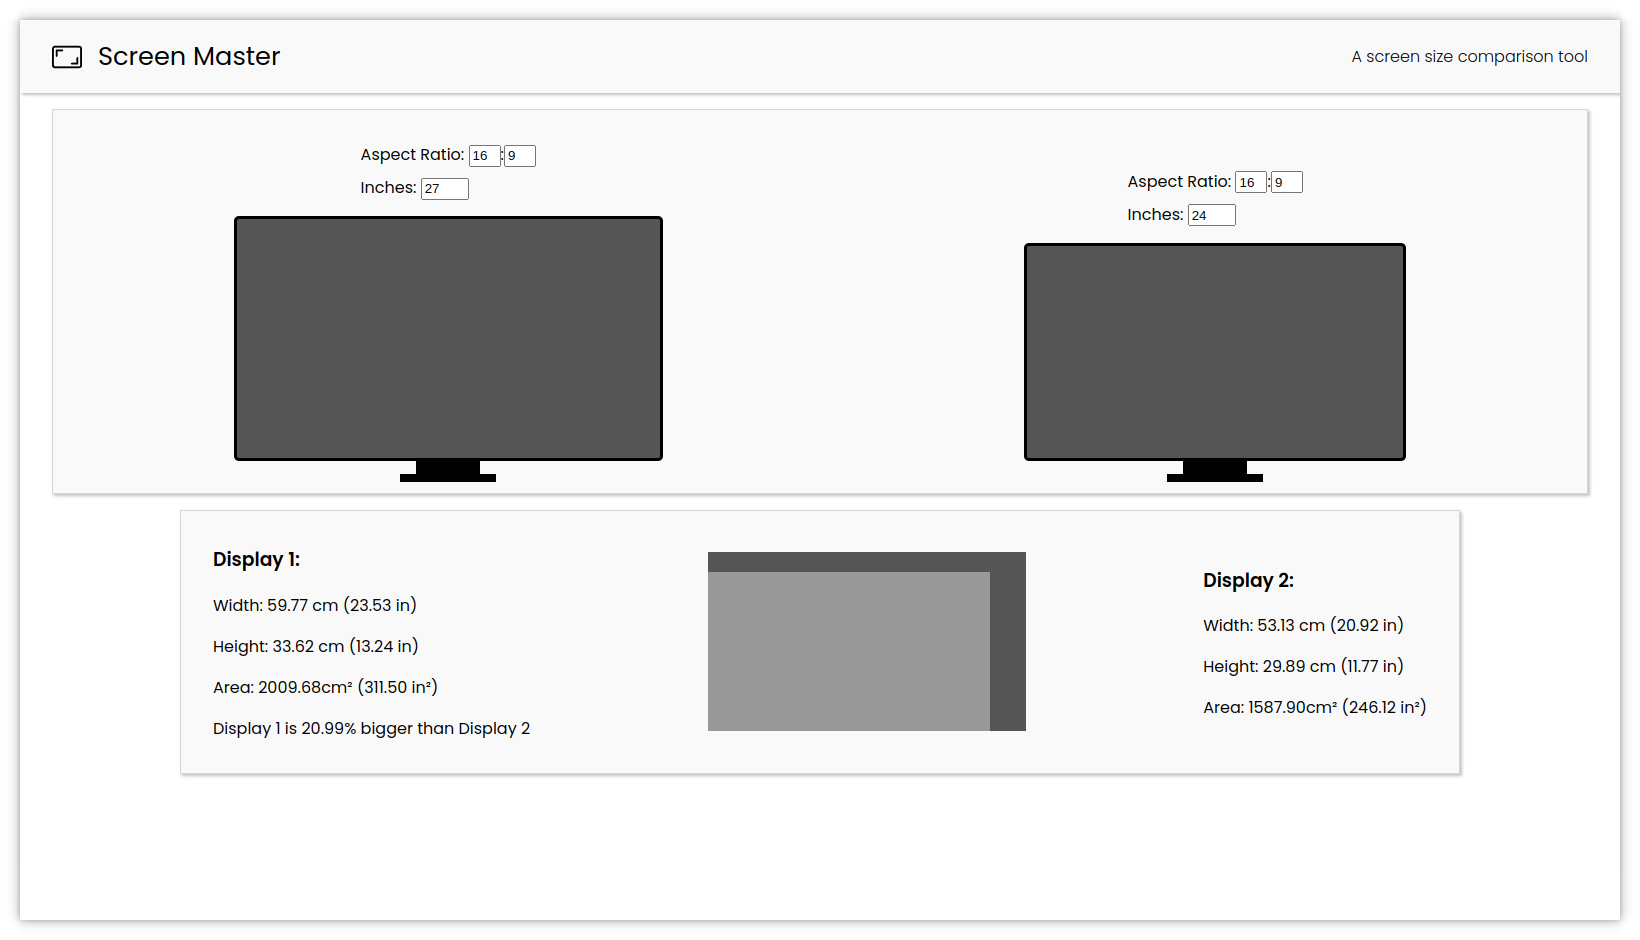
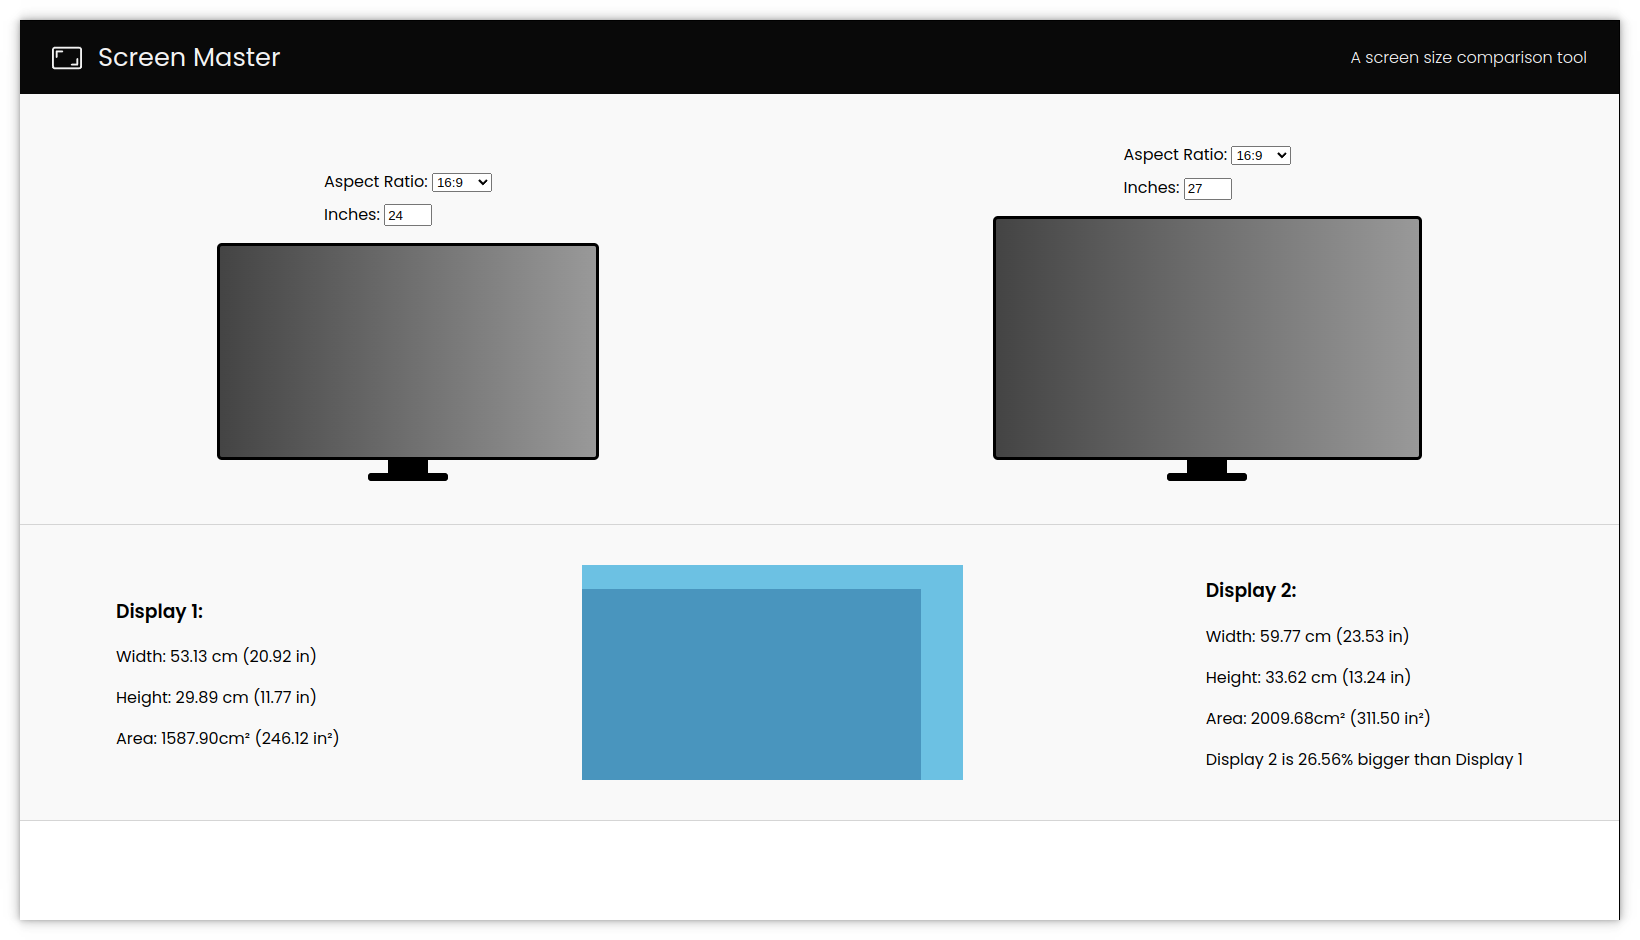
Novo layout e mobile

diff --git a/style.css b/style.css
@@ -1,4 +1,5 @@
 :root{
+    font-size: 16px;
     font-family: 'Poppins', sans-serif;
 }
 
@@ -9,15 +10,17 @@ body{
 #title{
     font-size: 1.6rem;
     font-weight: 400;
+    color: #f3f3f3;
 }
 
 #subtitle{
     font-size: 1rem;
     font-weight: 300;
+    color: #f3f3f3;
 }
 
 header{
-    background-color: #f9f9f9;
+    background-color: #090909;
     box-shadow: 2px 2px 3px #66666666;
     display: flex;
     align-items: center;
@@ -42,11 +45,8 @@ input{
 
 #mainContainer{
     background-color: #f9f9f9;
-    padding: 1rem 0 2rem 0;
-    border-radius: 5px;
-    box-shadow: 2px 2px 3px #66666666;
-    margin: 1rem 2rem;
-    border: solid 1px #66666640;
+    padding: 2rem 0 4rem 0;
+    border-bottom: solid 1px #66666640;
     display: flex;
     justify-content: space-around;
 }
@@ -74,14 +74,14 @@ input{
 }
 
 #screen-3{
-    background-color: #555555;
+    background-color: #6cc1e3;
     transition: height 1s, width 1s;
     display: flex;
     align-items: end;
 }
 
 #screen-4{
-    background-color: #999999;
+    background-color: #4995be;
     transition: height 1s, width 1s;
 }
 
@@ -90,17 +90,14 @@ input{
     display: flex;
     justify-content: space-between;
     align-items: center;
-    padding: 1rem 2rem;
-    border: solid 1px #66666640;
-    border-radius: 5px;
-    box-shadow: 2px 2px 3px #66666666;
-    margin: 1rem 10vw;
+    padding: 2rem 6rem;
+    border-bottom: solid 1px #66666640;
 }
 
 #bar1, #bar2{
     background-color: black;
     height: 1.5rem;
-    width: 4rem;
+    width: 2.5rem;
     justify-self: center;
     position: absolute;
     top: 100%;
@@ -111,14 +108,77 @@ input{
 #foot1, #foot2{
     background-color: black;
     height: 0.5rem;
-    width: 6rem;
+    width: 5rem;
     justify-self: center;
     position: absolute;
     top: calc(100% + 1rem);
     left: 50%;
     transform: translate(-50%);
+    border-radius: 3px;
 }
 
 .border{
     border: solid 1px #666666;
+}
+
+@media (max-width: 768px){
+    :root{
+        font-size: 12px;
+    }
+
+    #subtitle{
+        display: none;
+    }
+
+    #mainContainer{
+        display: block;
+    }
+
+    #screen-1{
+        margin-bottom: 4rem;
+    }
+
+    #screen-1, #screen-2{
+        left: 50%;
+        transform: translateX(-50%);
+    }
+
+    .form{
+        display: flex;
+        gap: 2rem;
+    }
+
+    #bar1, #bar2{
+        height: 0.75rem;
+        width: 1.5rem;
+        justify-self: center;
+        position: absolute;
+        top: 100%;
+        left: 50%;
+        transform: translate(-50%);
+    }
+    
+    #foot1, #foot2{
+        height: 0.25rem;
+        width: 4rem;
+        justify-self: center;
+        position: absolute;
+        top: calc(100% + 0.6rem);
+        left: 50%;
+        transform: translate(-50%);
+        border-radius: 3px;
+    }
+
+    #comparison{
+        display: block;
+        padding: 2rem 3rem;
+    }
+
+    #display-info-1{
+        margin-bottom: 2rem;
+    }
+
+    #display-info-2{
+        margin-top: 2rem;
+    }
 }

diff --git a/index.html b/index.html
@@ -16,7 +16,7 @@
 <body>
     <header>
         <div>
-            <svg xmlns="http://www.w3.org/2000/svg" width="30" height="30" fill="currentColor" class="bi bi-aspect-ratio" viewBox="0 0 16 16">
+            <svg xmlns="http://www.w3.org/2000/svg" width="30" height="30" fill="#f3f3f3" class="bi bi-aspect-ratio" viewBox="0 0 16 16">
                 <path d="M0 3.5A1.5 1.5 0 0 1 1.5 2h13A1.5 1.5 0 0 1 16 3.5v9a1.5 1.5 0 0 1-1.5 1.5h-13A1.5 1.5 0 0 1 0 12.5v-9zM1.5 3a.5.5 0 0 0-.5.5v9a.5.5 0 0 0 .5.5h13a.5.5 0 0 0 .5-.5v-9a.5.5 0 0 0-.5-.5h-13z"/>
                 <path d="M2 4.5a.5.5 0 0 1 .5-.5h3a.5.5 0 0 1 0 1H3v2.5a.5.5 0 0 1-1 0v-3zm12 7a.5.5 0 0 1-.5.5h-3a.5.5 0 0 1 0-1H13V8.5a.5.5 0 0 1 1 0v3z"/>
             </svg>
@@ -30,7 +30,7 @@
             <div id="form1" class="form">
                 <div>
                     <label>Aspect Ratio: </label>
-                    <select id="ratio1">
+                    <select id="ratio1" title="Aspect Ratio">
                         <option value="4:3">4:3</option>
                         <option value="16:9" selected>16:9</option>
                         <option value="16:10">16:10</option>
@@ -56,7 +56,7 @@
             <div id="form2" class="form">
                 <div>
                     <label>Aspect Ratio: </label>
-                    <select id="ratio2">
+                    <select id="ratio2" title="Aspect Ratio">
                         <option value="4:3">4:3</option>
                         <option value="16:9" selected>16:9</option>
                         <option value="16:10">16:10</option>
@@ -80,7 +80,7 @@
     </div>
 
     <div id="comparison">
-        <div>
+        <div id="display-info-1">
             <h3><strong>Display 1:</strong></h3>
             <p id="width-info-1"></p>
             <p id="height-info-1"></p>
@@ -90,7 +90,7 @@
         <div id="screen-3">
             <div id="screen-4"></div>
         </div>
-        <div>
+        <div id="display-info-2">
             <h3><strong>Display 2:</strong></h3>
             <p id="width-info-2"></p>
             <p id="height-info-2"></p>

diff --git a/scripts.js b/scripts.js
@@ -1,5 +1,5 @@
 const reducer1 = 0.5
-const reducer2 = 0.75
+let reducer2 = 0.9
 
 // Converts from inches to centimeters
 function convertToCentimeter(value) {
@@ -30,6 +30,10 @@ function screenUpdate() {
         control = reducer1 * ($(document.body).height() / (measures1.h + measures2.h))
     }else{
         control = reducer1 * ($(document.body).width() / (measures1.w + measures2.w))
+    }
+
+    if($(document.body).width() <= 768){
+        control = control * 2
     }
 
     $('#screen-1').height(measures1.h * control)
@@ -88,18 +92,18 @@ $(document).ready(function () {
 })
 
 $('#ratio1').change(function () {
-    if($('#ratio1').val().split(':')[1] > 10){
+    if($('#ratio1').val().split(':')[1] > 10 && $('#inches1').val() > 10){
         $('#inches1').val('6.7')
-    }else{
+    }else if($('#ratio1').val().split(':')[1] < 10 && $('#inches1').val() < 10){
         $('#inches1').val('19.5')
     }
     screenUpdate()
 })
 
 $('#ratio2').change(function () {
-    if($('#ratio2').val().split(':')[1] > 10){
+    if($('#ratio2').val().split(':')[1] > 10 && $('#inches2').val() > 10){
         $('#inches2').val('6.7')
-    }else{
+    }else if($('#ratio2').val().split(':')[1] < 10 && $('#inches2').val() < 10){
         $('#inches2').val('19.5')
     }
     screenUpdate()
